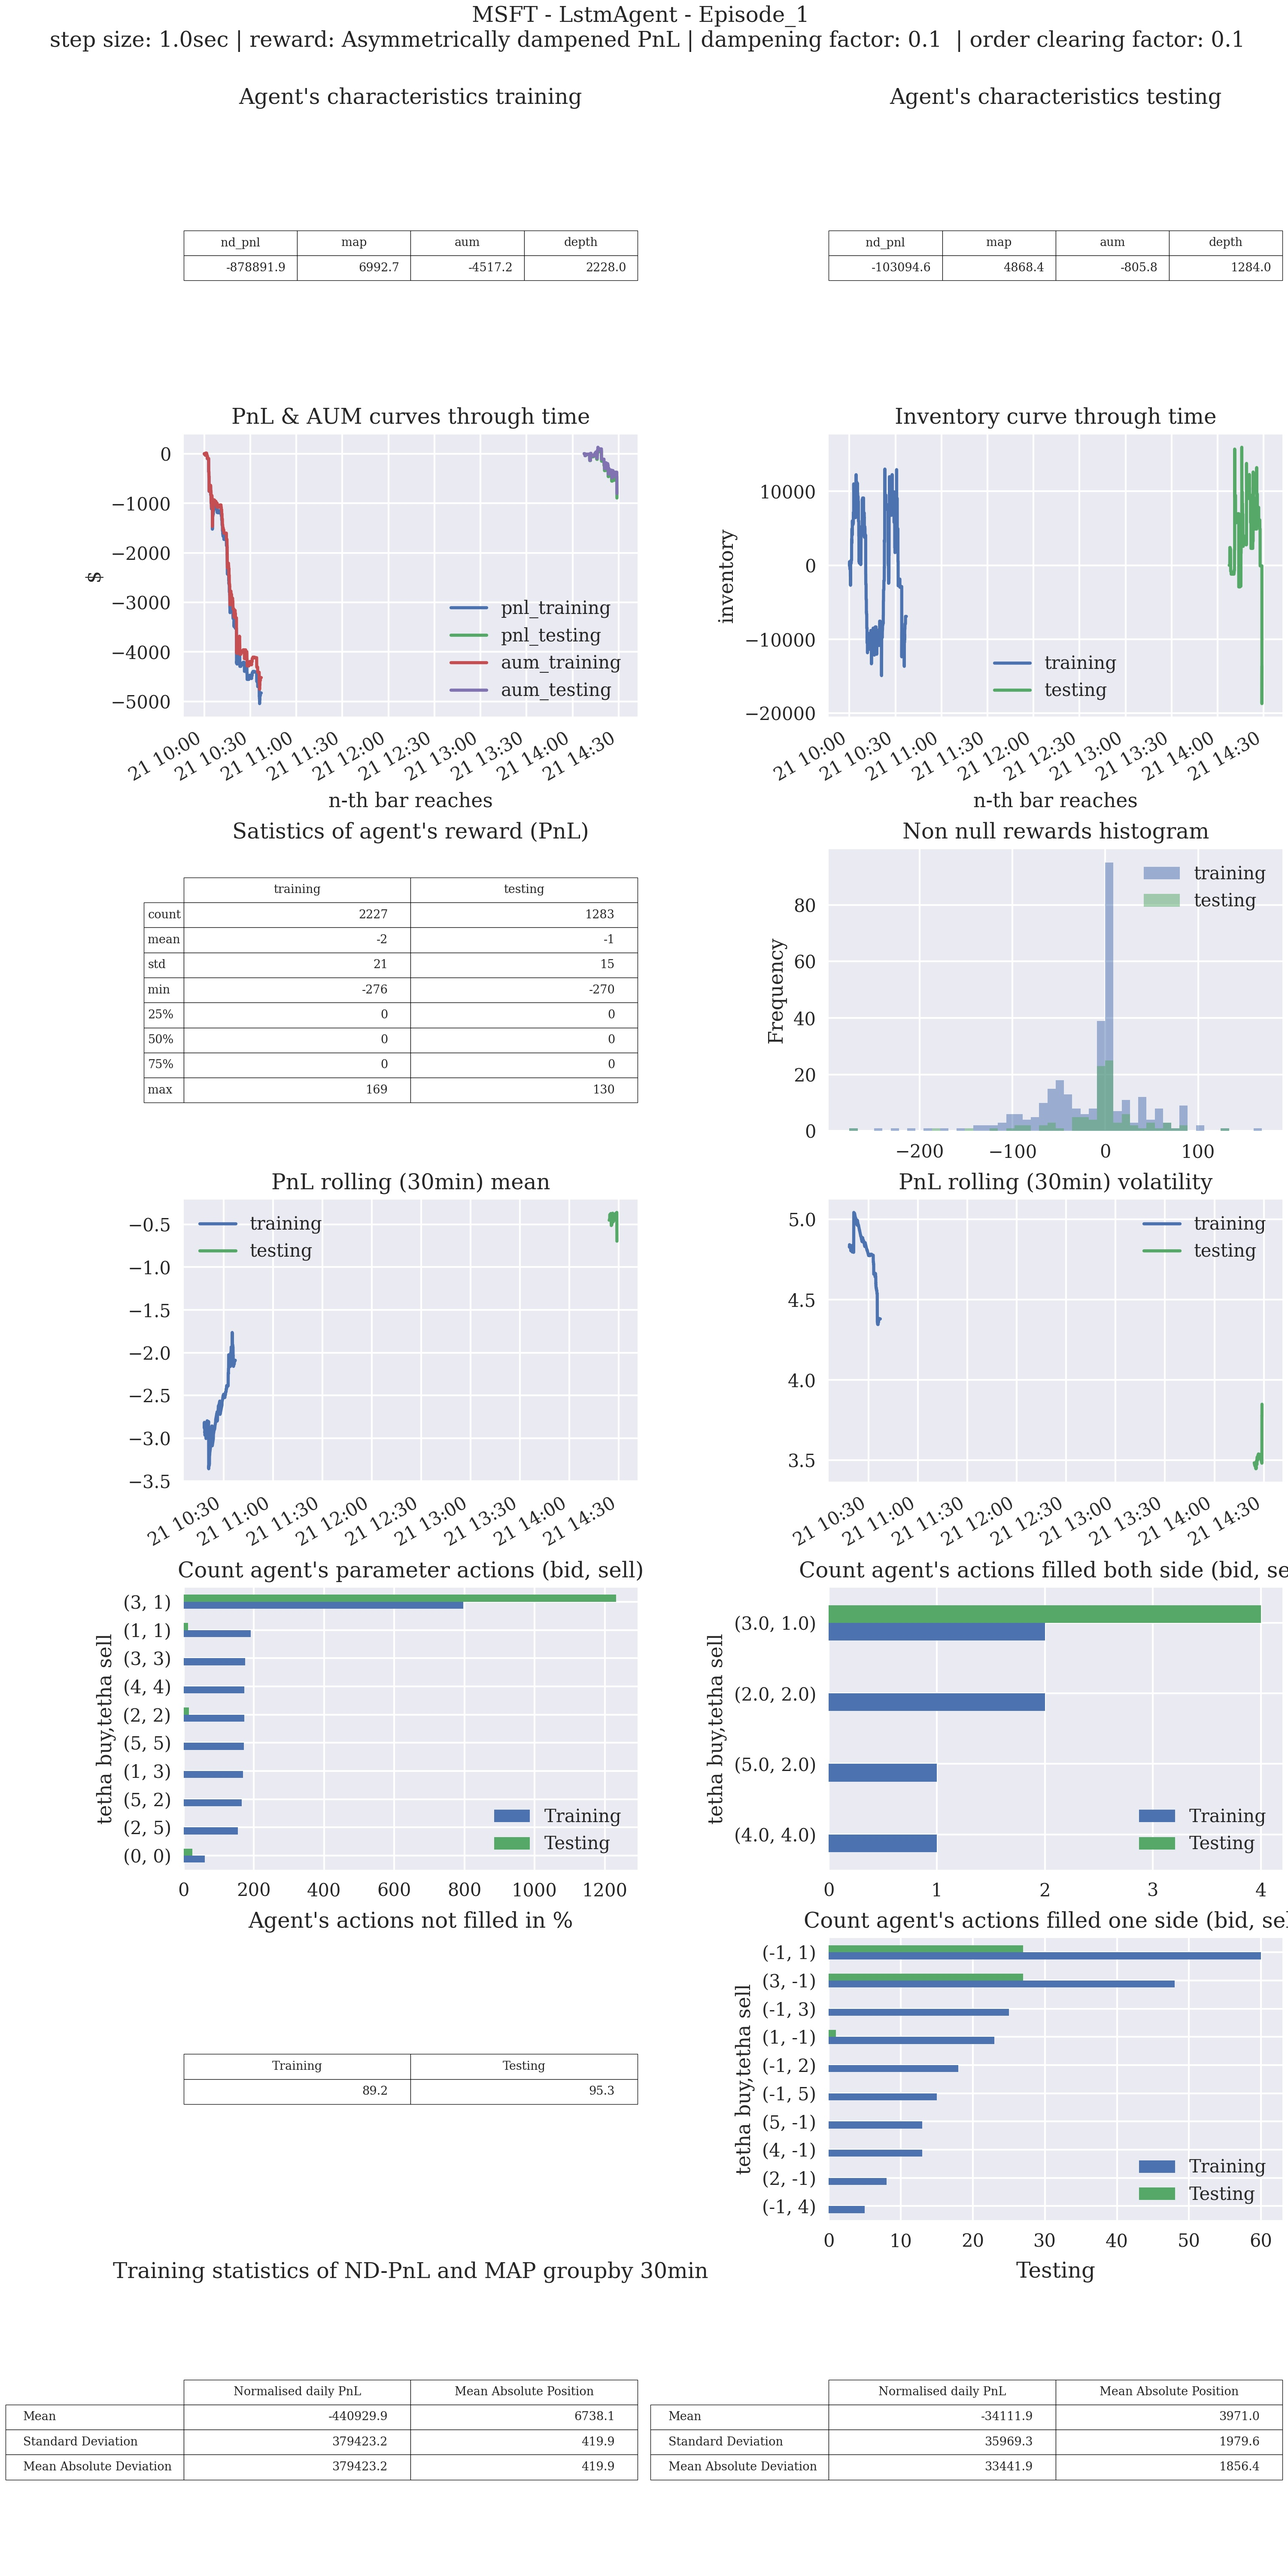
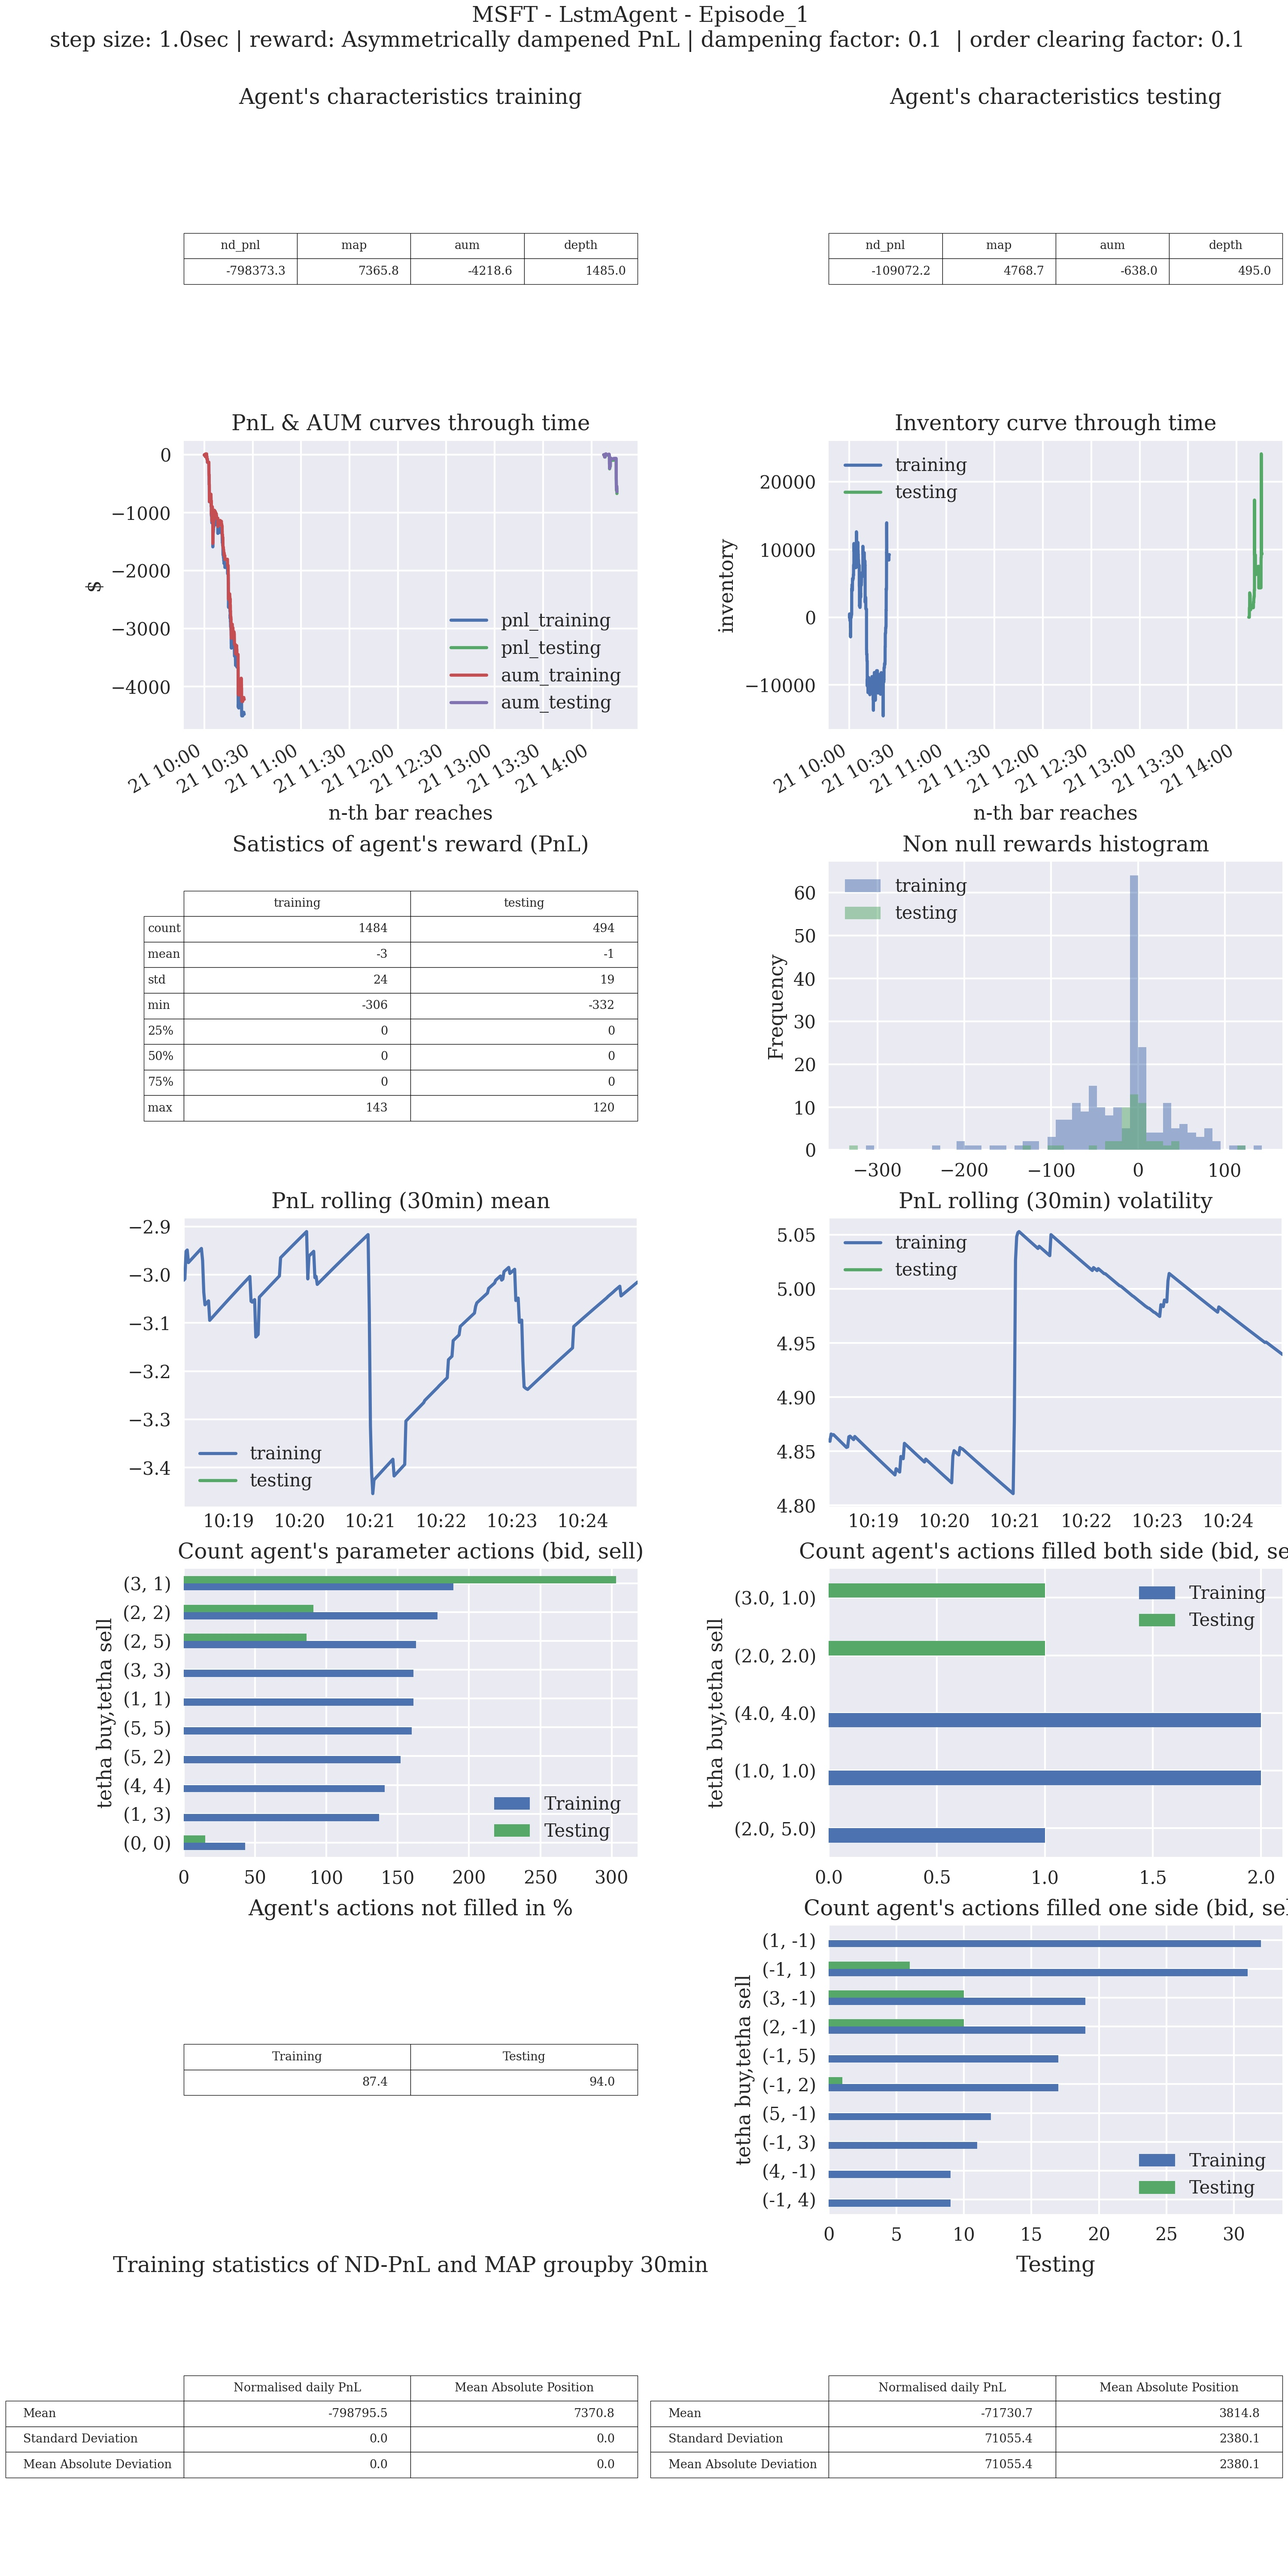
Initial

diff --git a/agents/Agent.py b/agents/Agent.py
@@ -115,7 +115,7 @@ class Agent(metaclass=abc.ABCMeta):
         done_info['aum'].append(info.aum)
         bar = len(info.inventories)
         done_info['depth'].append(bar)
-        if (episode-1) % 10 == 0:
+        if (episode - 1) % 10 == 0:
             templ = '\nepisode: {:2d}/{} | bar: {:2d}/{} | epsilon: {:5.2f}\n'
             templ += 'normalised pnl: {:5.2f} | mean abs position: {:5.2f}\n'
             templ += 'asset under management: {:5.2f} | success: {} \n'
@@ -154,15 +154,15 @@ class Agent(metaclass=abc.ABCMeta):
             self._validate(episode)
             if self.learning_agent and len(self.memory) > self.batch_size:
                 self.replay()
-            if episode % 10 == 0:
+            if (episode - 1) % 10 == 0:
                 plot_per_episode(self.learn_env.ticker, self.get_name(),
                                  self.learn_env.step_size, self.learn_env.market_order_fraction_of_inventory,
                                  self.learn_env.per_step_reward_function_midprice, self.step_info_per_episode,
                                  self.step_info_per_eval_episode, episode, self.done_info, self.done_info_eval)
-        if self.episodes > 1:
-            plot_final(self.done_info, self.done_info_eval, self.learn_env.ticker, self.get_name(),
-                       self.learn_env.step_size, self.learn_env.market_order_fraction_of_inventory,
-                       self.learn_env.per_step_reward_function_midprice)
+            if self.episodes > 1 and episode >= 100 and (episode - 1) % 100 == 0:
+                plot_final(self.done_info, self.done_info_eval, self.learn_env.ticker, self.get_name(),
+                           self.learn_env.step_size, self.learn_env.market_order_fraction_of_inventory,
+                           self.learn_env.per_step_reward_function_midprice)
         print(f'Time elapsed: {round((time.time() - start) / 3600, 3)} hours')
         if save: self.set_args()
 

diff --git a/agents/baseline_agents.py b/agents/baseline_agents.py
@@ -93,10 +93,10 @@ class BaseDQN(Agent):
             self,
             learn_env: HistoricalOrderbookEnvironment = None,
             valid_env: HistoricalOrderbookEnvironment = None,
-            episodes: int = 100,
-            epsilon: float = 0.7,
-            epsilon_min: float = 0.0001,
-            epsilon_decay: float = 0.98,
+            episodes: int = 1000,
+            epsilon: float = 0.95,
+            epsilon_min: float = 0.01,
+            epsilon_decay: float = 0.99,
             gamma: float = 0.97,
             batch_size: int = 1024,
             type_algo: str = 'mask'
@@ -155,7 +155,7 @@ class DnnAgent(BaseDQN):
             self,
             learn_env: HistoricalOrderbookEnvironment = None,
             valid_env: HistoricalOrderbookEnvironment = None,
-            hidden_dim: int = 32,
+            hidden_dim: int = 256,
             n_hidden: int = 1,
             lr: float = 0.001,
             dropout: float = 0.2
@@ -187,9 +187,9 @@ class LstmAgent(BaseDQN):
             self,
             learn_env: HistoricalOrderbookEnvironment = None,
             valid_env: HistoricalOrderbookEnvironment = None,
-            hidden_dim: int = 32,
+            hidden_dim: int = 256,
             n_hidden: int = 1,
-            lr: float = 0.01,
+            lr: float = 0.001,
             dropout: float = 0.2
 
     ):

diff --git a/mygym/HistoricalOrderbookEnvironment.py b/mygym/HistoricalOrderbookEnvironment.py
@@ -83,7 +83,7 @@ class HistoricalOrderbookEnvironment:
             verbose=verbose
         )
         self.state: State = self._get_default_state()
-        self.threshold = 0.15
+        self.threshold = 0.1
         self.date_threshold: datetime = self.start_of_trading + (self.end_of_trading - self.start_of_trading) * self.threshold
         self.mm_threshold: int = int((self.date_threshold-self.start_of_trading).seconds)
         #print(f'Mark to market value threshold has been fixed to: {self.mm_threshold}$')

diff --git a/main.py b/main.py
@@ -12,7 +12,7 @@ if __name__ == '__main__':
 
     ticker = "MSFT"
     step_in_sec = 1
-    lags = 50
+    lags = 100
     date = datetime(2012, 6, 21)
 
     dates = split_dates(split=0.75, date=date, hour_start=10, hour_end=15.5, step_in_sec=step_in_sec)
